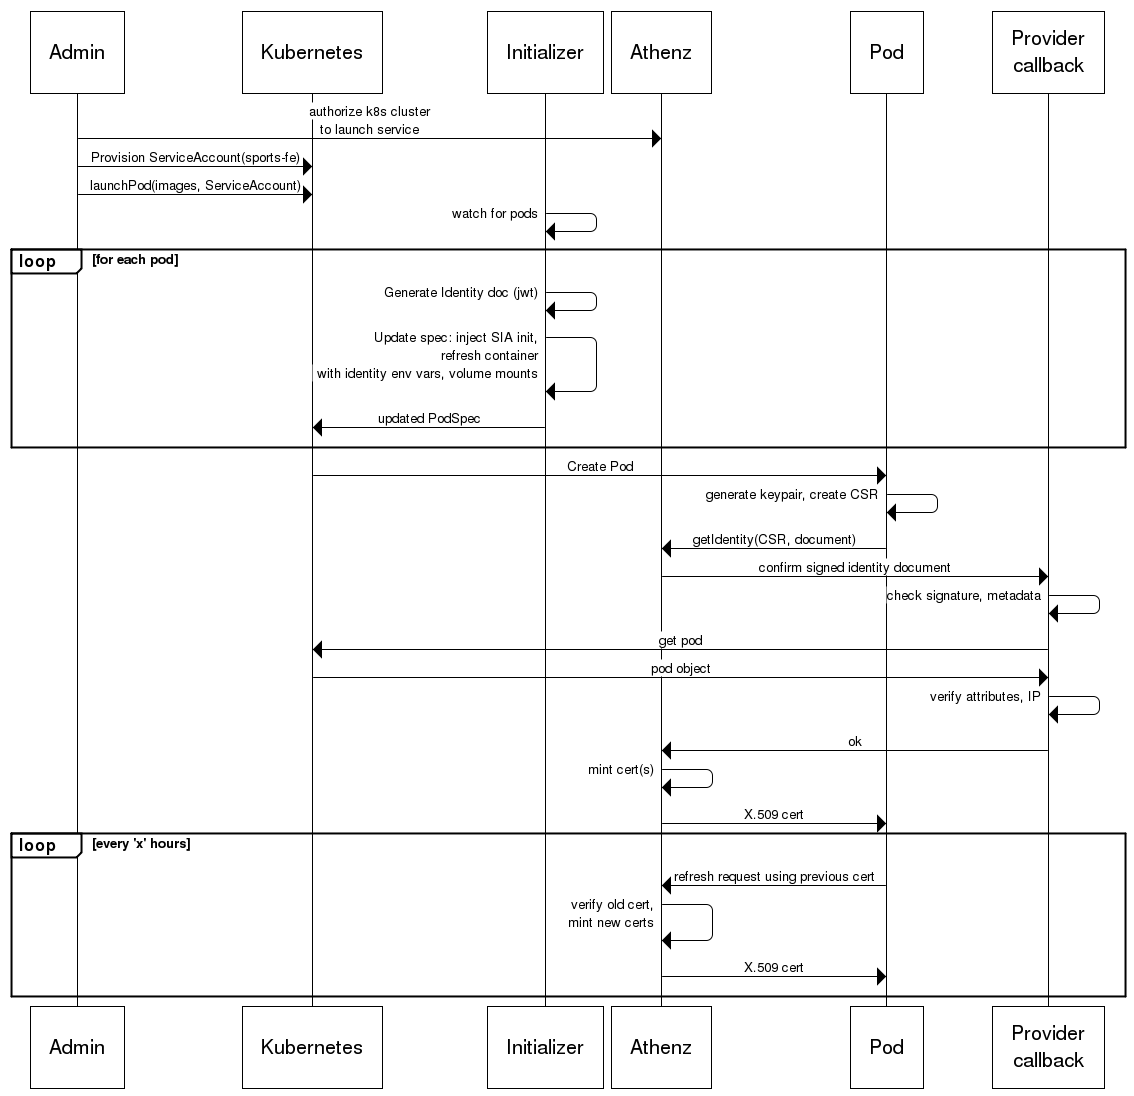
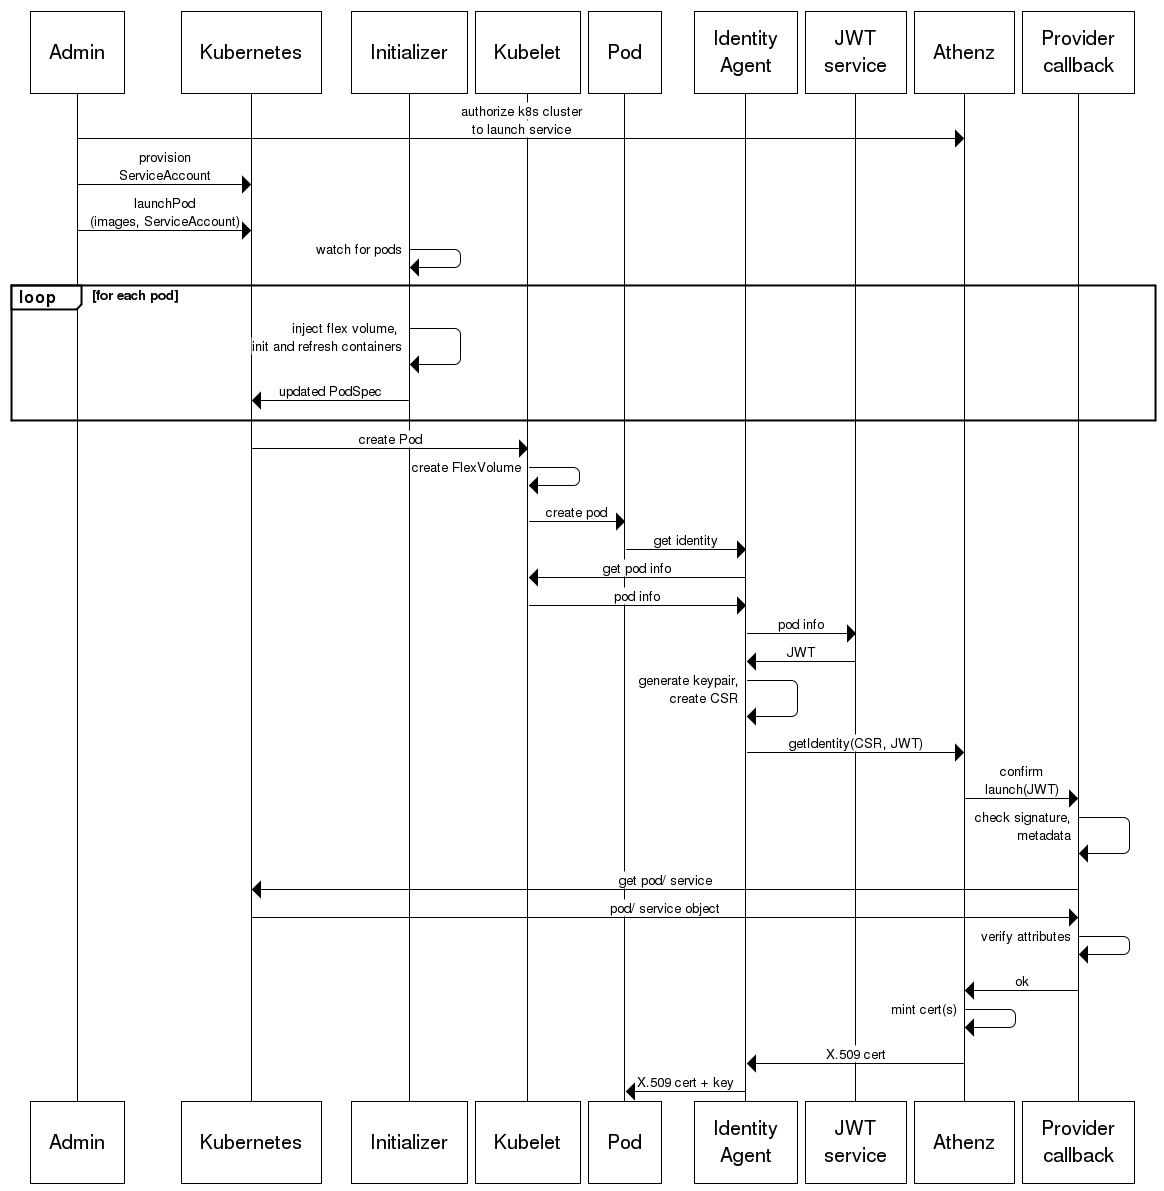
docs

diff --git a/DESIGN.md b/DESIGN.md
@@ -1,0 +1,106 @@
+design
+===
+
+### Athenz overview
+
+* Athenz is an athentication/ authorization system. Authorization is based on RBAC.
+* It has the concept of domains (namespaces), roles, policies, principals and services.
+  * A domain roughly maps to a Kubernetes namespace, except for naming convention. Domains typically have dots
+    (e.g. `media.sports`) while K8s namespaces do not.
+  * Domains can appear to be hierarchical but they are not. Every domain is a self-contained entity. The only place where
+    hierarchy is used is in subdomain create/ delete. The parent domain's admin role has the ability to create and
+    delete subdomains. Top-level domains can only be created or deleted by Athenz administrators. 
+* Principals may be humans or services. Principals authenticate themselves using principal tokens or TLS certs.
+* Service public keys can be uploaded to Athenz for specific key versions. A process that has access to the
+  private key can authenticate itself against Athenz by signing its own identity token and get TLS credentials. 
+* Athenz also supports the notion of one service launching another. This supports bootstrapping use-cases for bare-metal
+  (where openstack is the launcher service for example) as well as multi-tenant use-cases (where Mesos/ Kubernetes 
+  is the launcher).
+* In this flow, the launcher service can request TLS certs for the launched service. Athenz calls back to a 
+  service provider endpoint to ensure it is a valid launch and returns a TLS identity. The service can then use the 
+  current credentials to prove its identity and refresh them periodically.
+  * Additional safeguards require the launcher service to be part of a whitelist of services that can launch others
+    and the launcher service must have explicit access to launch specific services via Athenz policies that are set up
+    for each service that is launched.
+    
+### Athenz and K8s Identities
+
+* A kubernetes and Athenz services map 1:1 with name translation from domain name to k8s namespace. The mapping logic we
+  use is simple:
+  * Namespaces in K8s are set up as the domain name in Athenz except for literal dashes that are converted to 2 dashes.
+    The domain `foo.bar-baz` becomes the namespace `foo-bar--baz`.
+  * System namespaces in K8s are turned into a subdomain of the admin Athenz domain for a K8s cluster. For example if the admin
+    domain for the cluster is called `k8s.admin`, the `kube-dns` service in the `kube-system` domain will be turned into
+    `k8s.admin.kube-system.kube-dns`.
+  * The above strategy ensures that names can be mapped unambiguously in both directions.
+  * Service names do not need mapping and can be used in both places as-is.
+* A Kubernetes pod has a service identity derived from the namespace that it runs in and the service account used to
+  launch it. The service account should have the same name as the service that is used to route to pods.
+* There is no notion of container identity (yet).
+
+### TLS identities
+
+A TLS cert for an Athenz service has the following characteristics.
+
+* A common name that is the equal to `<athenz-domain><DOT><athenz-service>` (e.g. `media.sports.frontend`)
+* 2 SAN names constructed as follows:
+    * `<service><DOT><dashed-domain><DOT><dns-suffix>`
+    * `<unique-id><DOT>instanceid.athenz<DOT><dns-suffix>`
+
+  where `dns-suffix` is a suffix that is allocated per provider service.
+* It may be possible to arrange the DNS suffix and domain transformation such that the `kube-dns` name and the
+  SAN name in the Athenz cert match exactly. This option has not been fully explored; the current prototype 
+  assumes that the DNS names for the same service will be different across Athenz and K8s.
+  * This adds friction for mutual TLS where one service needs to connect to another via the `kube-dns` name and set up
+    SNI for the Athenz name.
+
+### Service identity bootstrap
+
+* We assume that every node has ephemeral TLS certs created on boot and refreshed in the background by the provision service
+  (e.g. openstack) and a node-agent running on every box. This is outside the scope of kubernetes.
+* The k8s identity agent uses these certs to prove its identity.
+* Every pod launched on a node is given an identity by the identity agent using the kubelet API as the source of truth.
+  * Pods (via init container and sidecars) must request an identity init/ refresh from the local identity agent. The 
+    identity agent listens on a Unix domain socket that is mounted into the pod sidecar/ init container via a flex volume.
+  * The identity agent in turn collects information about the pod being launched and creates a JWT representing the pod
+    identity. 
+  * This is forwarded to Athenz which, in turn, calls back on the provider callback endpoint for verification.
+  * The provider callback verifies the identity document by comparing it against pod and service information from the 
+    K8s API.
+* The provider callback is itself a K8s service running on the cluster bootstrapped with an Athenz identity using a
+  service key.
+* The JWT needs to be signed and verified. There are no keys on the box that can be used to sign documents. This requires
+  a signing service that has been loaded with private keys. The corresponding public keys are loaded into the 
+  provider callback for verifying JWTs. The identity agent uses the signing service to sign JWTs.
+* Mutual TLS ensures that only the components that can allowed to talk to each other can in fact do so.
+
+### Identity document
+
+The identity document is a JWT that looks as follows:
+
+#### Header
+
+```json
+{
+  "alg": "RS256",
+  "iss": "secret:athens-init-secret?version=v1",
+  "typ": "JWT"
+}
+```
+
+#### Payload
+
+```json
+{
+  "aud": "k8s-athenz-identity",
+  "exp": 1507101919,
+  "iat": 1507101019,
+  "iss": "secret:athens-init-secret?version=v1",
+  "sub": "pod:k8s-namespace/k8s-pod-id?d=athenz-domain&n=athenz-service&i=pod-ip&s=service-ip"
+}
+```
+
+### Launch flow
+
+![sequence diagram](sequence.png)
+

diff --git a/README.md b/README.md
@@ -2,24 +2,10 @@ k8s-athenz-identity
 ==========
 
 Control plane components to securely provide [Athenz](https://github.com/yahoo/athenz) identities to 
-[Kubernetes](https://kubernetes.io/) application  workloads. See the [launch flow doc](launch-flow.md) for a detailed 
+[Kubernetes](https://kubernetes.io/) application workloads. See the [design document](DESIGN.md) for a detailed 
 description of the end to end flow.
 
 Works on k8s version 1.8 or above.
-
-Components
-----
-
-Note: `sia` is jargon for "Service Identity Agent".
-
-| Name | Description |
-| ---- | ----------- |
-| athenz-initializer | k8s initializer that watches pods and injects containers with identity documents into pod specs |
-| athenz-callback | implements the provider callback endpoint for Athenz |
-| athenz-sia | container that knows how to unpack identity information and request credentials from Athenz |
-| athenz-control-sia | container that can retrieve TLS certs from Athenz using its own service key (control plane bootstrap) |
-
-Also includes an insecure mock implementation of relevant Athenz APIs for local testing, as well as a test app.
 
 Build
 -----
@@ -35,11 +21,10 @@ $ make
 Discussion points
 ----
 
-* Identity doc in plaintext as environment variable. Discuss implications.
 * High-availability of initializer using leader election. Pod launches will be blocked if initializer fails.
-* Handling replay attacks for callback endpoint
-* Pod IP is not validated. Athenz team looking at enhancing callback to include client IP and SAN IPs requested in the CSR
-  as attributes in the extra bag of data given to provider. Ticket: ATHENS-3546
+* Handling replay attacks for identity/ callback endpoint
+* Pod IP is not validated against SANS IPs requested for certificate. Athenz team looking at enhancing callback to 
+  include client IP and SAN IPs requested in the CSR as attributes in the extra bag of data given to provider. Ticket: ATHENS-3546
 
 TODOs
 ----
@@ -48,5 +33,3 @@ TODOs
 * Ordering of initializer configuration and deployment of initializer still matters. Will be an upgrade issue. Investigate.
 * Dynamic refresh intervals for both control and data plane SIA
 * Deployment strategy for provider callback in the face of network ACLs etc.
-* Mutual TLS on callback to ensure caller is Athenz
-* Add PodIP to SAN for the CSR
